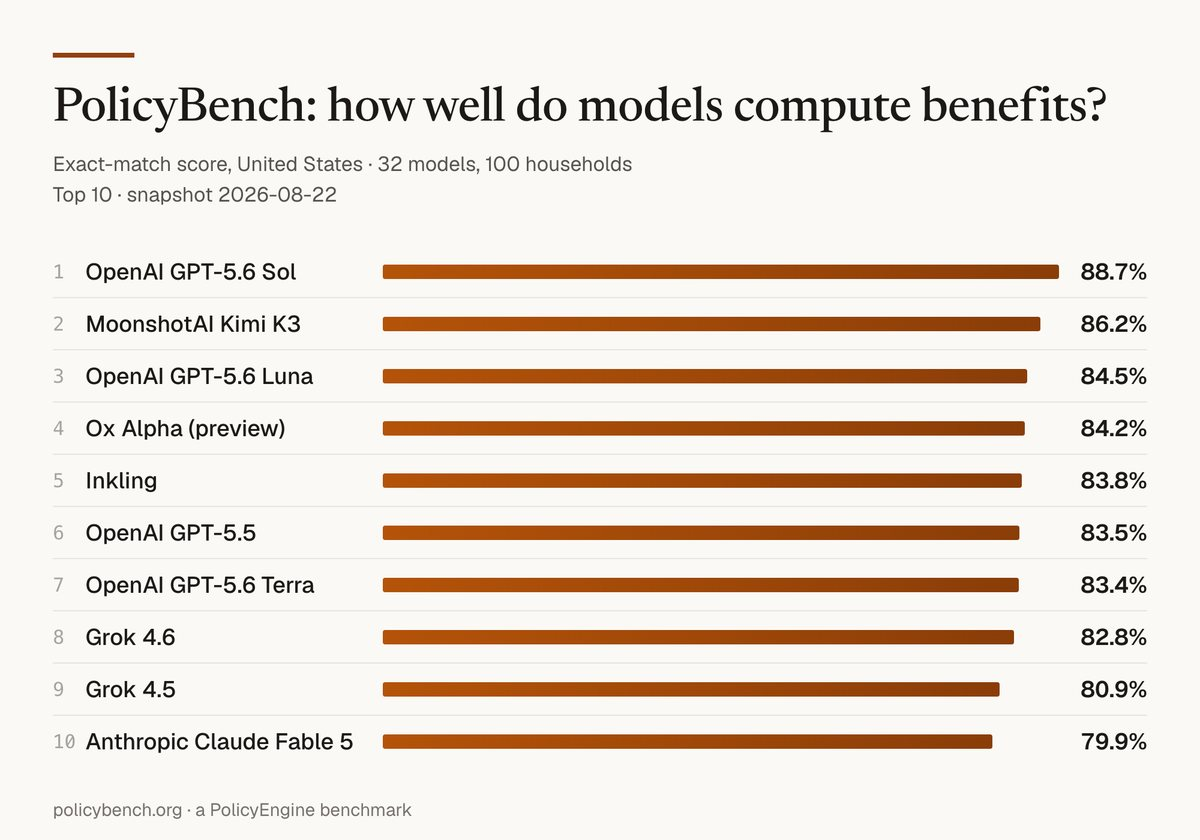
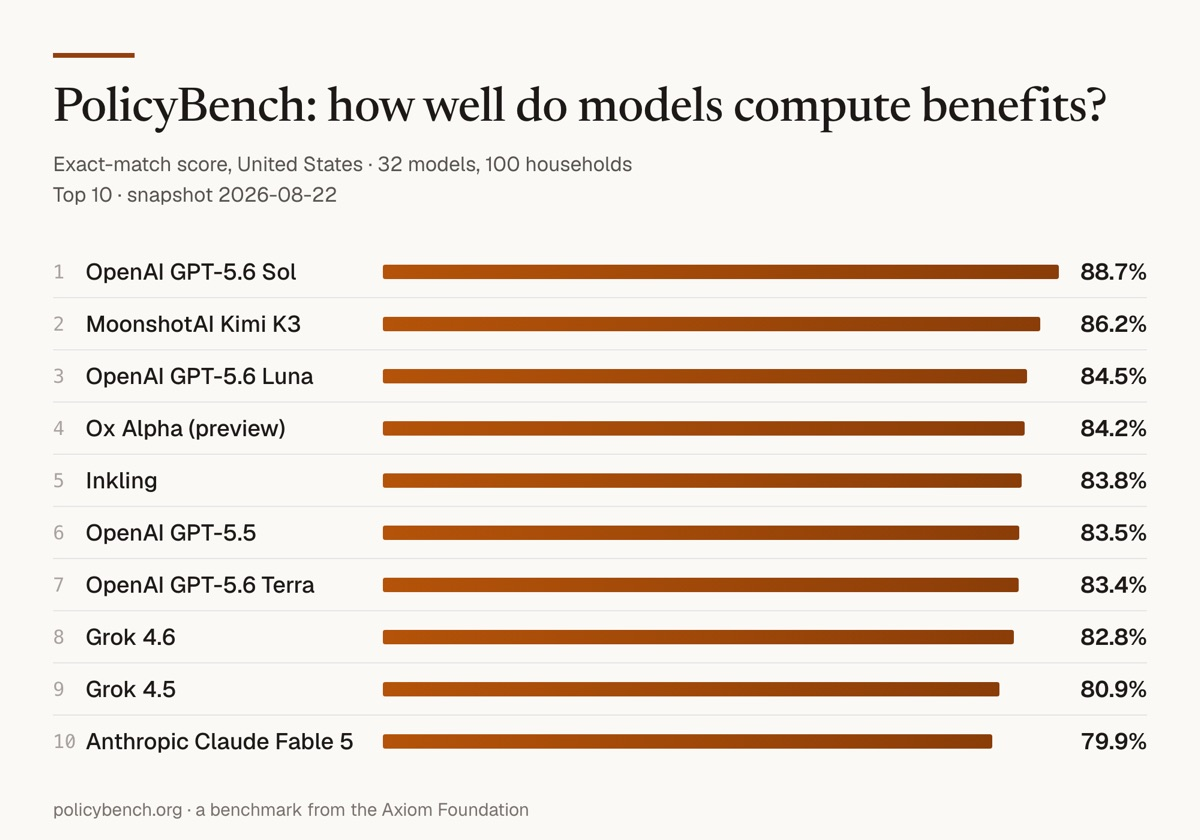
Give the benchmark box a text title and claim it as ours
The PolicyBench box carried its title only inside the JPEG, so any
client blocking images lost it. The title now sits in text above the
image, linked to policybench.org.

The lead sentence names the benchmark as ours and states the scope --
32 models, United States household tax and benefit calculations -- which
settles the attribution flag per AK. The rendered card credit changes
from "a PolicyEngine benchmark" to "a benchmark from the Axiom
Foundation" to match; the card is regenerated in the ops repo.

The coverage line drops its second clause and ends at the link.

diff --git a/editions/2026-09-10.html b/editions/2026-09-10.html
@@ -80,11 +80,11 @@
                                         <div style="font-family: 'Geist Mono','SFMono-Regular',Menlo,Consolas,monospace; font-size: 10px; letter-spacing: 0.09em; text-transform: uppercase; color: #b45309; margin-bottom: 10px;">
                                             Benchmark snapshot
                                         </div>
+                                        <div style="font-size: 17px; font-weight: 700; color: #1c1917; line-height: 1.4; letter-spacing: -0.01em; margin-bottom: 12px;"><a href="https://policybench.org/" style="color: #1c1917; text-decoration: none;">PolicyBench: how well do models compute benefits?</a></div>
                                         <div style="display: inline-block; font-family: 'Geist Mono','SFMono-Regular',Menlo,Consolas,monospace; font-size: 10px; font-weight: 600; letter-spacing: 0.05em; text-transform: uppercase; color: #991b1b; background: #fdf3f0; border: 1px dashed #991b1b; border-radius: 3px; padding: 2px 6px; margin-bottom: 12px;">Re-run policybench.mjs on Sep 9 and re-upload &mdash; the board is versioned and re-run</div>
                                         <a href="https://policybench.org/" style="text-decoration: none;"><img src="https://raw.githubusercontent.com/TheAxiomFoundation/newsletters/edition/2026-09-01/assets/images/2026-09-10-policybench-leaderboard.jpg" alt="PolicyBench leaderboard, top 10 of 32 models by exact-match score on United States household tax and benefit calculations, snapshot August 22 2026. OpenAI GPT-5.6 Sol leads at 88.7 percent, MoonshotAI Kimi K3 86.2, OpenAI GPT-5.6 Luna 84.5, Ox Alpha preview 84.2, Inkling 83.8, down to Anthropic Claude Fable 5 at 79.9 percent." width="512" style="width: 100%; max-width: 512px; height: auto; display: block; border-radius: 4px; border: 1px solid #e7e5e4;"></a>
                                         <div style="font-size: 14px; line-height: 1.6; color: #44403c; padding-top: 12px;">
-                                            The best model still gets about one household in nine wrong, and the spread across the top ten is under nine points. <a href="https://policybench.org/" style="color: #b45309; text-decoration: none;">See the full board &rarr;</a>
-                                            <span style="display: inline-block; font-family: 'Geist Mono','SFMono-Regular',Menlo,Consolas,monospace; font-size: 10px; font-weight: 600; letter-spacing: 0.05em; text-transform: uppercase; color: #991b1b; background: #fdf3f0; border: 1px dashed #991b1b; border-radius: 3px; padding: 2px 6px;">AK: the blog calls PolicyBench "our open benchmark" but the site says "by PolicyEngine" &mdash; which attribution is right?</span>
+                                            Our open benchmark scores 32 models on United States household tax and benefit calculations. The best model still gets about one household in nine wrong, and the spread across the top ten is under nine points. <a href="https://policybench.org/" style="color: #b45309; text-decoration: none;">See the full board &rarr;</a>
                                         </div>
                                     </td>
                                 </tr>
@@ -96,7 +96,7 @@
                                     <div style="font-family: 'Geist Mono','SFMono-Regular',Menlo,Consolas,monospace; font-size: 10px; letter-spacing: 0.09em; text-transform: uppercase; color: #b45309; margin-bottom: 8px;">The corpus &middot; 28 August 2026</div>
                                         <div style="margin-bottom: 10px;"><span style="display: inline-block; font-family: 'Geist Mono','SFMono-Regular',Menlo,Consolas,monospace; font-size: 10px; font-weight: 600; letter-spacing: 0.05em; text-transform: uppercase; color: #991b1b; background: #fdf3f0; border: 1px dashed #991b1b; border-radius: 3px; padding: 2px 6px;">Re-pull axiom.org/coverage on Sep 9 &mdash; update all three figures and this date</span></div>
                                     <div style="font-size: 17px; font-weight: 650; color: #1c1917; line-height: 1.5;">9,069 source documents &middot; 94,366 provisions &middot; 4,155 RuleSpec encodings</div>
-                                    <div style="font-size: 13px; line-height: 1.6; color: #44403c; padding-top: 8px;">Every figure is live on the <a href="https://axiom.org/coverage" style="color: #b45309; text-decoration: none;">coverage page</a> &mdash; check them against this email whenever you like.</div>
+                                    <div style="font-size: 13px; line-height: 1.6; color: #44403c; padding-top: 8px;">Every figure is live on the <a href="https://axiom.org/coverage" style="color: #b45309; text-decoration: none;">coverage page</a>.</div>
                                 </td></tr>
                             </table>
                             <table width="100%" cellpadding="0" cellspacing="0" style="margin: 4px 0 12px 0;">
